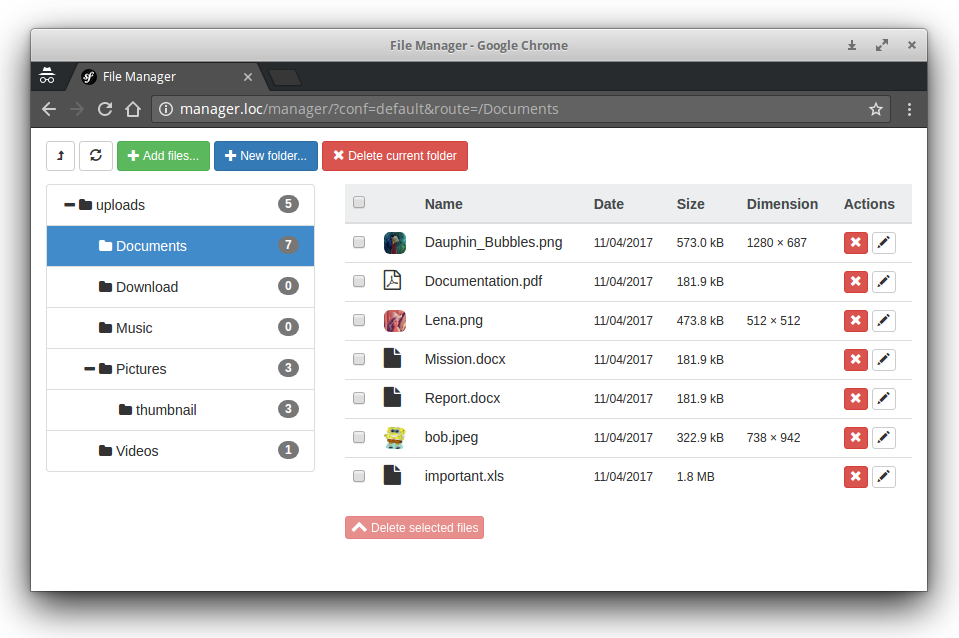
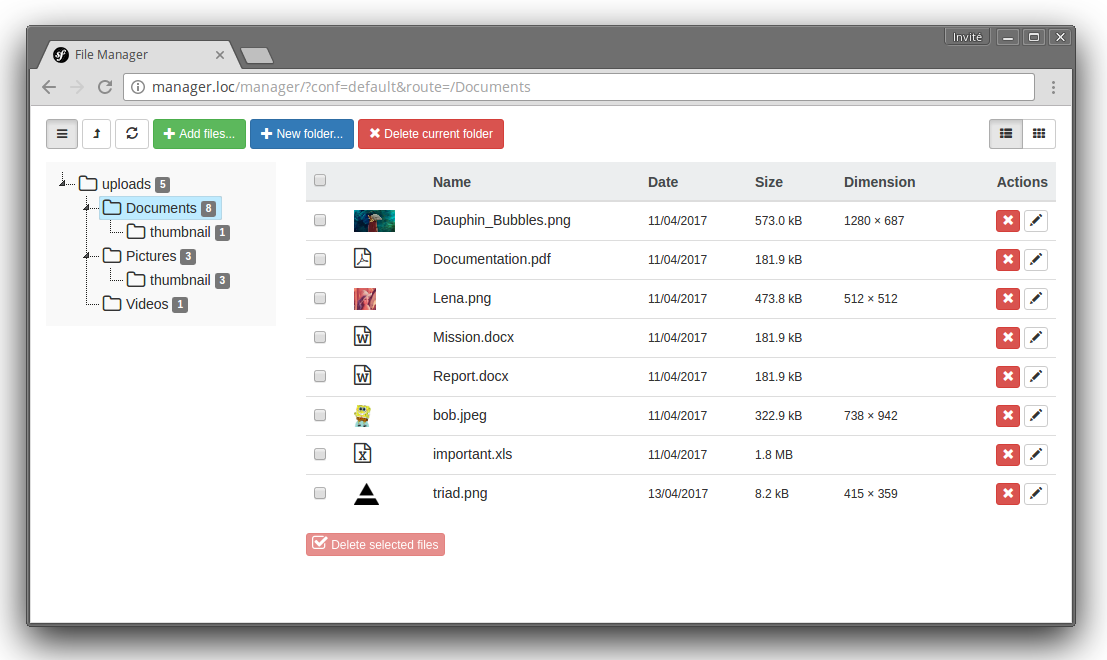
New features : Tree View Mode, List/Thumbnail Mode

diff --git a/Resources/public/css/manager.css b/Resources/public/css/manager.css
@@ -22,7 +22,7 @@ body {
     display: inline-block;
 }
 
-#top-bar {
+.top-bar {
     padding: 10px 0;
     margin: 3px 0;
 }
@@ -40,7 +40,6 @@ i.fa {
 }
 
 .nopadding {
-    padding: 0 !important;
     margin: 0 !important;
 }
 
@@ -60,8 +59,8 @@ i.fa {
 }
 
 .thumbnail {
-    padding: 20px 0;
-    margin-bottom: 0px;
+    padding: 20px 14px;
+    margin-bottom: 0;
     border-left: none;
     border-radius: inherit;
     border-top: none;
@@ -69,25 +68,24 @@ i.fa {
     border-right: 1px #dcdcdc solid;
 }
 
-/*.thumbnail-card {*/
-/*display: inline-block;*/
-/*height: 200px;*/
-/*padding: 20px;*/
-
-/*}*/
-
-/*.thumbnail-card p {*/
-/*overflow: hidden;*/
-/*}*/
-
-.thumbnail-img {
-    min-height: 100px;
+.thumbnail p {
+    height: 85px;
 }
 
-#thumbnail-blk .fa {
+.thumbnail-img {
+    height: 115px;
+    padding: 5px;
+}
+
+.thumbnail .fa {
     font-size: 6em;
 }
 
-#thumbnail-blk .select {
+.thumbnail-blk .select {
     padding: 5px 0;
+}
+
+
+.no-tree-blk .thumbnail-blk .select-all {
+    padding-left: 5px;
 }

diff --git a/Helpers/File.php b/Helpers/File.php
@@ -6,7 +6,7 @@ namespace Artgris\Bundle\FileManagerBundle\Helpers;
 
 use Artgris\Bundle\FileManagerBundle\Service\FileTypeService;
 use Symfony\Component\Finder\SplFileInfo;
-use Symfony\Component\Translation\DataCollectorTranslator;
+use Symfony\Component\Translation\TranslatorInterface;
 
 class File
 {
@@ -15,7 +15,7 @@ class File
      */
     private $file;
     /**
-     * @var DataCollectorTranslator
+     * @var TranslatorInterface
      */
     private $translator;
     /**
@@ -32,12 +32,12 @@ class File
     /**
      * File constructor.
      * @param SplFileInfo $file
-     * @param DataCollectorTranslator $translator
+     * @param TranslatorInterface $translator
      * @param FileTypeService $fileTypeService
      * @param FileManager $fileManager
      * @internal param $module
      */
-    public function __construct(SplFileInfo $file, DataCollectorTranslator $translator, FileTypeService $fileTypeService, FileManager $fileManager)
+    public function __construct(SplFileInfo $file, TranslatorInterface $translator, FileTypeService $fileTypeService, FileManager $fileManager)
     {
         $this->file = $file;
         $this->translator = $translator;
@@ -64,17 +64,17 @@ class File
 
     public function getHTMLSize()
     {
-
-        $size = $this->file->getSize() / 1000;
-        $kb = $this->translator->trans("size.kb");
-        $mb = $this->translator->trans("size.mb");
-        return $size > 1000 ? number_format(($size / 1000), 1, '.', '') . " " . $mb : number_format($size, 1, '.', '') . " " . $kb;
+        if ($this->getFile()->getType() == 'file') {
+            $size = $this->file->getSize() / 1000;
+            $kb = $this->translator->trans("size.kb");
+            $mb = $this->translator->trans("size.mb");
+            return $size > 1000 ? number_format(($size / 1000), 1, '.', '') . " " . $mb : number_format($size, 1, '.', '') . " " . $kb;
+        }
     }
 
     public function getAttribut($module)
     {
         if ($module) {
-
             $attr = '';
             if ($this->getDimension()) {
 
@@ -87,19 +87,9 @@ class File
                 $attr .= "data-path=\"{$this->getPreview()['path']}\"";
             }
 
-            switch ($this->fileManager->getView()) {
-                case FileManager::VIEW_THUMBNAIL:
-                    $attr .= ' class="select"';
-                    break;
-                case FileManager::VIEW_LIST:
-                    $attr .= ' class="select"';
-                    break;
-            }
-
-
+            $attr .= ' class="select"';
             return $attr;
         }
-
     }
 
 
@@ -134,6 +124,5 @@ class File
     {
         $this->preview = $preview;
     }
-
 
 }

diff --git a/Service/FileTypeService.php b/Service/FileTypeService.php
@@ -61,6 +61,18 @@ class FileTypeService
                 case preg_match('/(pdf)$/i', $extension):
                     $fa = 'fa-file-pdf-o';
                     break;
+                case preg_match('/(docx?)$/i', $extension):
+                    $fa = 'fa-file-word-o';
+                    break;
+                case preg_match('/(xlsx?|csv)$/i', $extension):
+                    $fa = 'fa-file-excel-o';
+                    break;
+                case preg_match('/(pptx?)$/i', $extension):
+                    $fa = 'fa-file-powerpoint-o';
+                    break;
+                case preg_match('/(zip|rar|gz)$/i', $extension):
+                    $fa = 'fa-file-archive-o';
+                    break;
                 default :
                     $fa = 'fa-file-o';
             }

diff --git a/Twig/FileTypeExtension.php b/Twig/FileTypeExtension.php
@@ -19,12 +19,6 @@ class FileTypeExtension extends \Twig_Extension
         $this->fileTypeService = $fileTypeService;
     }
 
-
-    public function preview(FileManager $fileManager, SplFileInfo $file)
-    {
-        return $this->fileTypeService->preview($fileManager, $file);
-    }
-
     public function accept($type)
     {
         return $this->fileTypeService->accept($type);
@@ -36,7 +30,6 @@ class FileTypeExtension extends \Twig_Extension
     public function getFunctions()
     {
         return [
-            'preview' => new \Twig_SimpleFunction('preview', [$this, 'preview'], ['needs_environment' => false, 'is_safe' => ['html']]),
             'accept' => new \Twig_SimpleFunction('accept', [$this, 'accept'], ['needs_environment' => false, 'is_safe' => ['html']]),
         ];
     }

diff --git a/Helpers/FileManager.php b/Helpers/FileManager.php
@@ -235,7 +235,8 @@ class FileManager
      */
     public function getTree()
     {
-        return isset($this->getQueryParameters()['tree']) ? $this->getQueryParameters()['tree'] : true;
+        return isset($this->getQueryParameters()['tree']) ? $this->getQueryParameters()['tree'] : (isset($this->getConfiguration()['tree']) ? $this->getConfiguration()['tree'] : true);
+
     }
 
 
@@ -244,7 +245,8 @@ class FileManager
      */
     public function getView()
     {
-        return isset($this->getQueryParameters()['view']) ? $this->getQueryParameters()['view'] : 'list';
+        return isset($this->getQueryParameters()['view']) ? $this->getQueryParameters()['view'] : (isset($this->getConfiguration()['view']) ? $this->getConfiguration()['view'] : 'list');
+
     }
 
 

diff --git a/Resources/doc/book/3-access-file-manager.md b/Resources/doc/book/3-access-file-manager.md
@@ -7,12 +7,18 @@ file manager defined
 
 Here is a list of URL parameters :
 
-| Param    | Type     | Required  | Possible values          | Default value | Description       |
-| :------- |:--------:|:---------:|:------------------------:|:-------------:|:------------------|
-| `conf`   | `String` |  **True** |                          |               | name of the conf
-| `type`   | `String` |  False    | `file`, `image`, `media` | `file`        | type (used by tinymce)
-| `module` | `String` |  False    | `tiny`                   |  `null`       | module (used by tinymce)
+| Param    | Type     | Required  | Possible values          | Default value | Description       | Priority (yml / url) |
+| :------- |:--------:|:---------:|:------------------------:|:-------------:|:------------------|:------------------:|
+| `conf`   | `String` |  **True** |                          |               | name of the conf |
+| `type`   | `String` |  False    | `file`, `image`, `media` | `file`        | type (used by tinymce) | yml > url
+| `module` | `String` |  False    | `tiny`                   |  `null`       | module (used by tinymce) | 
+| `tree`   | `Interger` |  False    | `0`, `1` | `1`       | Display Folder Tree (1:Yes, 2:No) | url > yml
+| `view` | `String` |  False    | `thumbnail`, `list`     |  `list`       | Display Mode Type | url > yml
 | `extra` | `Array` |  False    |                    |  `null`       | extra parameters (used by service configuration)
+
+
+
+
 
 
 Exemple:

diff --git a/Resources/doc/book/1-basic-configuration.md b/Resources/doc/book/1-basic-configuration.md
@@ -51,11 +51,36 @@ artgris_file_manager:
 
 >Browse the `/manager/?conf=private` URL to get access to this File Manager
 
+#### `tree` Display Folder Tree 
+| Option | Type     | Required | Default value |
+| :---  |:--------:|:--------:|:--------:|
+| `tree`  | `Booleen` |  False   | True |
+
+Exemple with `tree` = False
+
+<img src="https://raw.githubusercontent.com/artgris/FileManagerBundle/master/Resources/doc/images/filemanager-promo-no-tree.png" alt="Symfony Filemanager created with FileManagerBundle" align="center" />
+
+
+
+#### `view` Display Mode Type
+
+| Option | Type     | Required | Possible values          | Default value |
+| :---  |:--------:|:--------:|:------------------------:|:-------------:|
+| `view`  | `String` |  False   | `thumbnail`, `list` | `list`        |
+
+
+Exemple with `thumbnail`
+
+<img src="https://raw.githubusercontent.com/artgris/FileManagerBundle/master/Resources/doc/images/filemanager-promo-thumbnail.png" alt="Symfony Filemanager created with FileManagerBundle" align="center" />
+
+
+
 #### `type` Basic file restriction
 
 | Option | Type     | Required | Possible values          | Default value |
 | :---  |:--------:|:--------:|:------------------------:|:-------------:|
 | `type`  | `String` |  False   | `file`, `image`, `media` | `file`        |
+
 
 
 Example:
